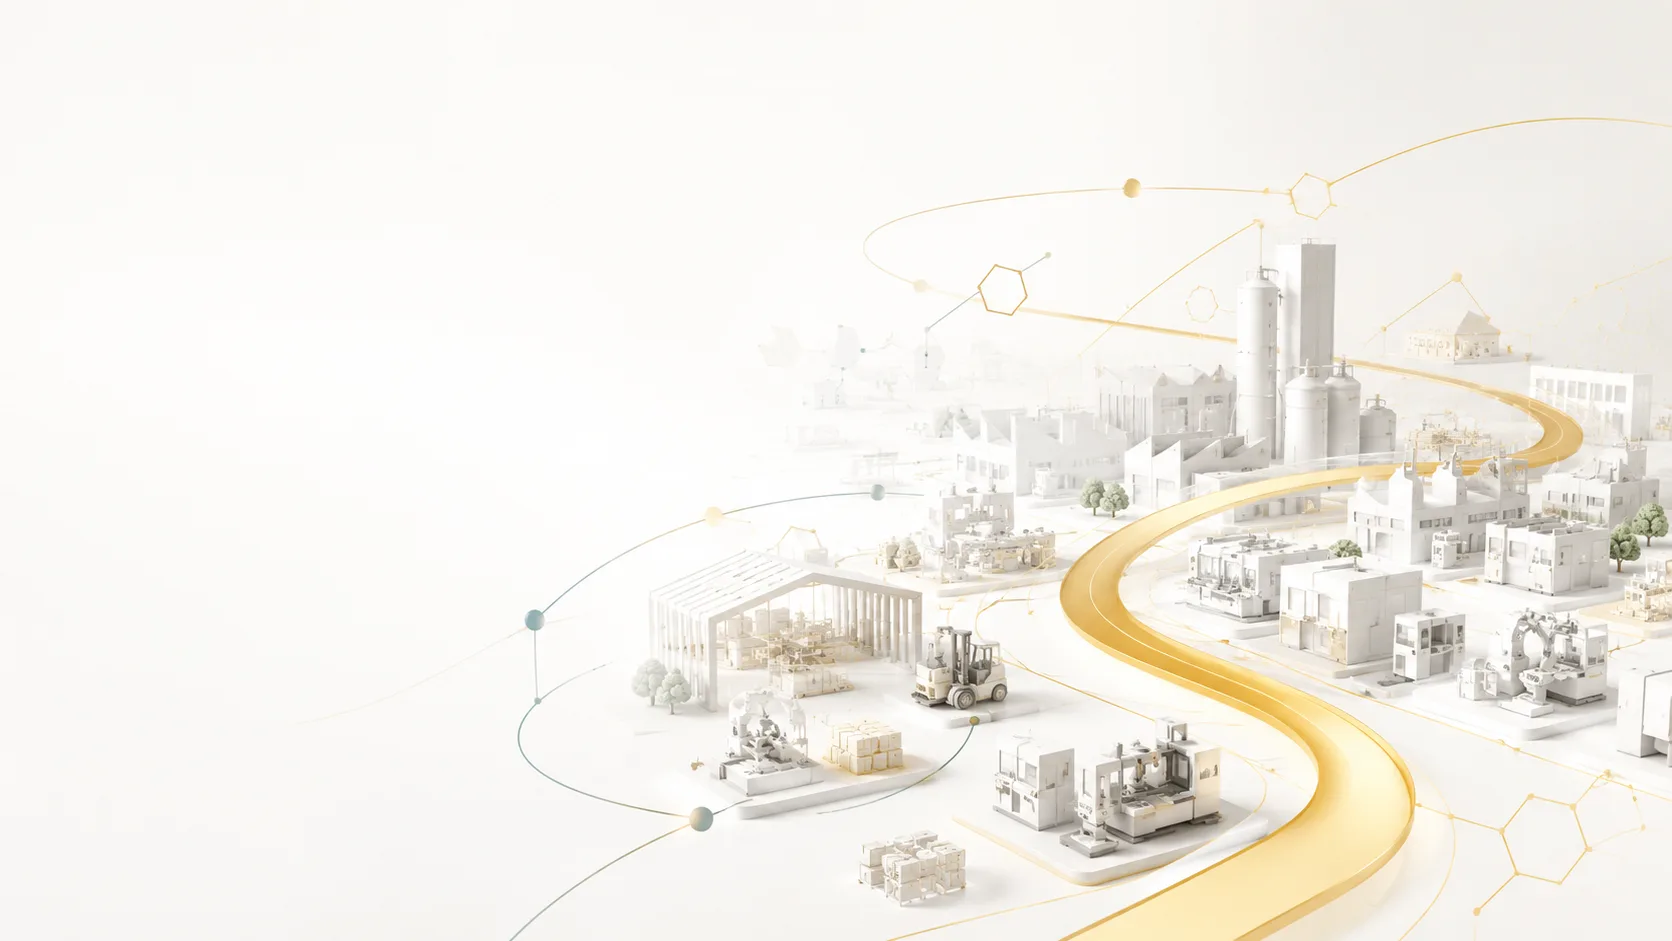
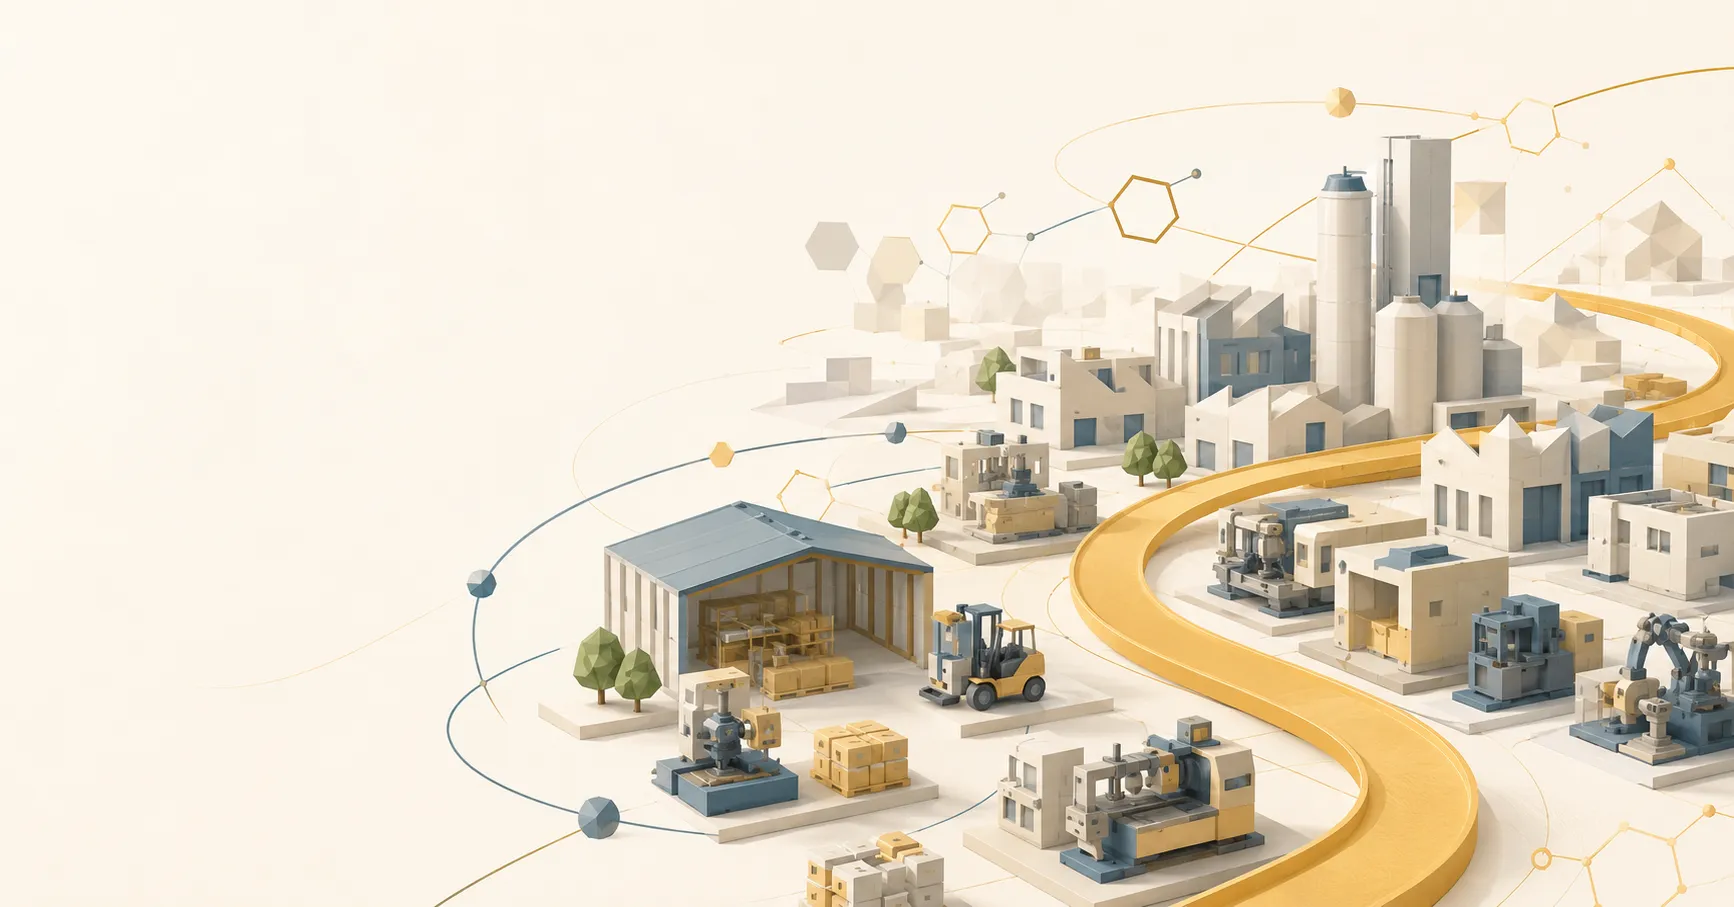
Add files via upload

diff --git a/index.html b/index.html
@@ -42,7 +42,7 @@
 
 <!-- MV (LAYOUT-014: full-screen kenburns + right copy + scroll indicator) -->
 <section class="mv">
-  <div class="mv_bg" role="img" aria-label="ペーパークラフト風の街並みと道のイラスト"></div>
+  <div class="mv_bg" role="img" aria-label="ミツバチが金色の道で町工場をつなぐペーパークラフト風のイラスト"></div>
   <div class="mv_copy">
     <p class="en">MACHINERY TRADING COMPANY</p>
     <h1 class="big">機械のことは、<br><span class="nw">ぜんぶMITSUBACHIへ。</span></h1>
@@ -148,7 +148,7 @@
 <!-- LAYOUT-014 recruit-style photo band -> company message -->
 <section class="band">
   <div class="inner band_flex">
-    <div class="band_img"><img src="images/ceo.webp" alt="代表取締役 山上 嘉" loading="lazy"></div>
+    <div class="band_img"><img src="images/ceo-wide.webp" alt="代表取締役 山上 嘉" loading="lazy"></div>
     <div class="band_txt">
       <div class="sec-h white"><div class="en">Message</div><span class="ja">代表メッセージ</span></div>
       <p class="copy">働きバチのように、<br>現場と現場をつなぎ続ける。</p>
@@ -176,7 +176,7 @@
     <div class="patbg pat"></div>
     <p class="sub">Contact</p>
     <h2 class="big2">機械・加工・工場の課題を<br class="br-sp">ご相談ください</h2>
-    <p class="p">機械の購入・売却、金属加工、設備の自動化、補助金活用まで、<br class="br-pc">内容が固まっていない段階でもご相談いただけます。</p>
+    <p class="p">機械の購入・���却、金属加工、設備の自動化、補助金活用まで、<br class="br-pc">内容が固まっていない段階でもご相談いただけます。</p>
     <a class="btn" href="contact.html">お問い合わせはこちら</a>
     <a class="cb_tel" href="tel:[phone redacted]">[phone redacted]<small>月〜土 9:00〜18:00（祝祭日除く）</small></a>
   </section>

diff --git a/css/style.css b/css/style.css
@@ -244,7 +244,7 @@ ul{list-style:none;}
 .ceo .person .word{font-size:11px;color:var(--muted);letter-spacing:.2em;text-align:center;line-height:2;}
 .ceo .person{overflow:hidden;}
 .ceo .person img{object-position:top;}
-.band_img img{height:auto;aspect-ratio:16/10;object-fit:cover;object-position:50% 14%;}
+.band_img img{height:auto;aspect-ratio:16/9;object-fit:cover;}
 
 /* company table */
 .cmp{padding:24px 0 112px;}